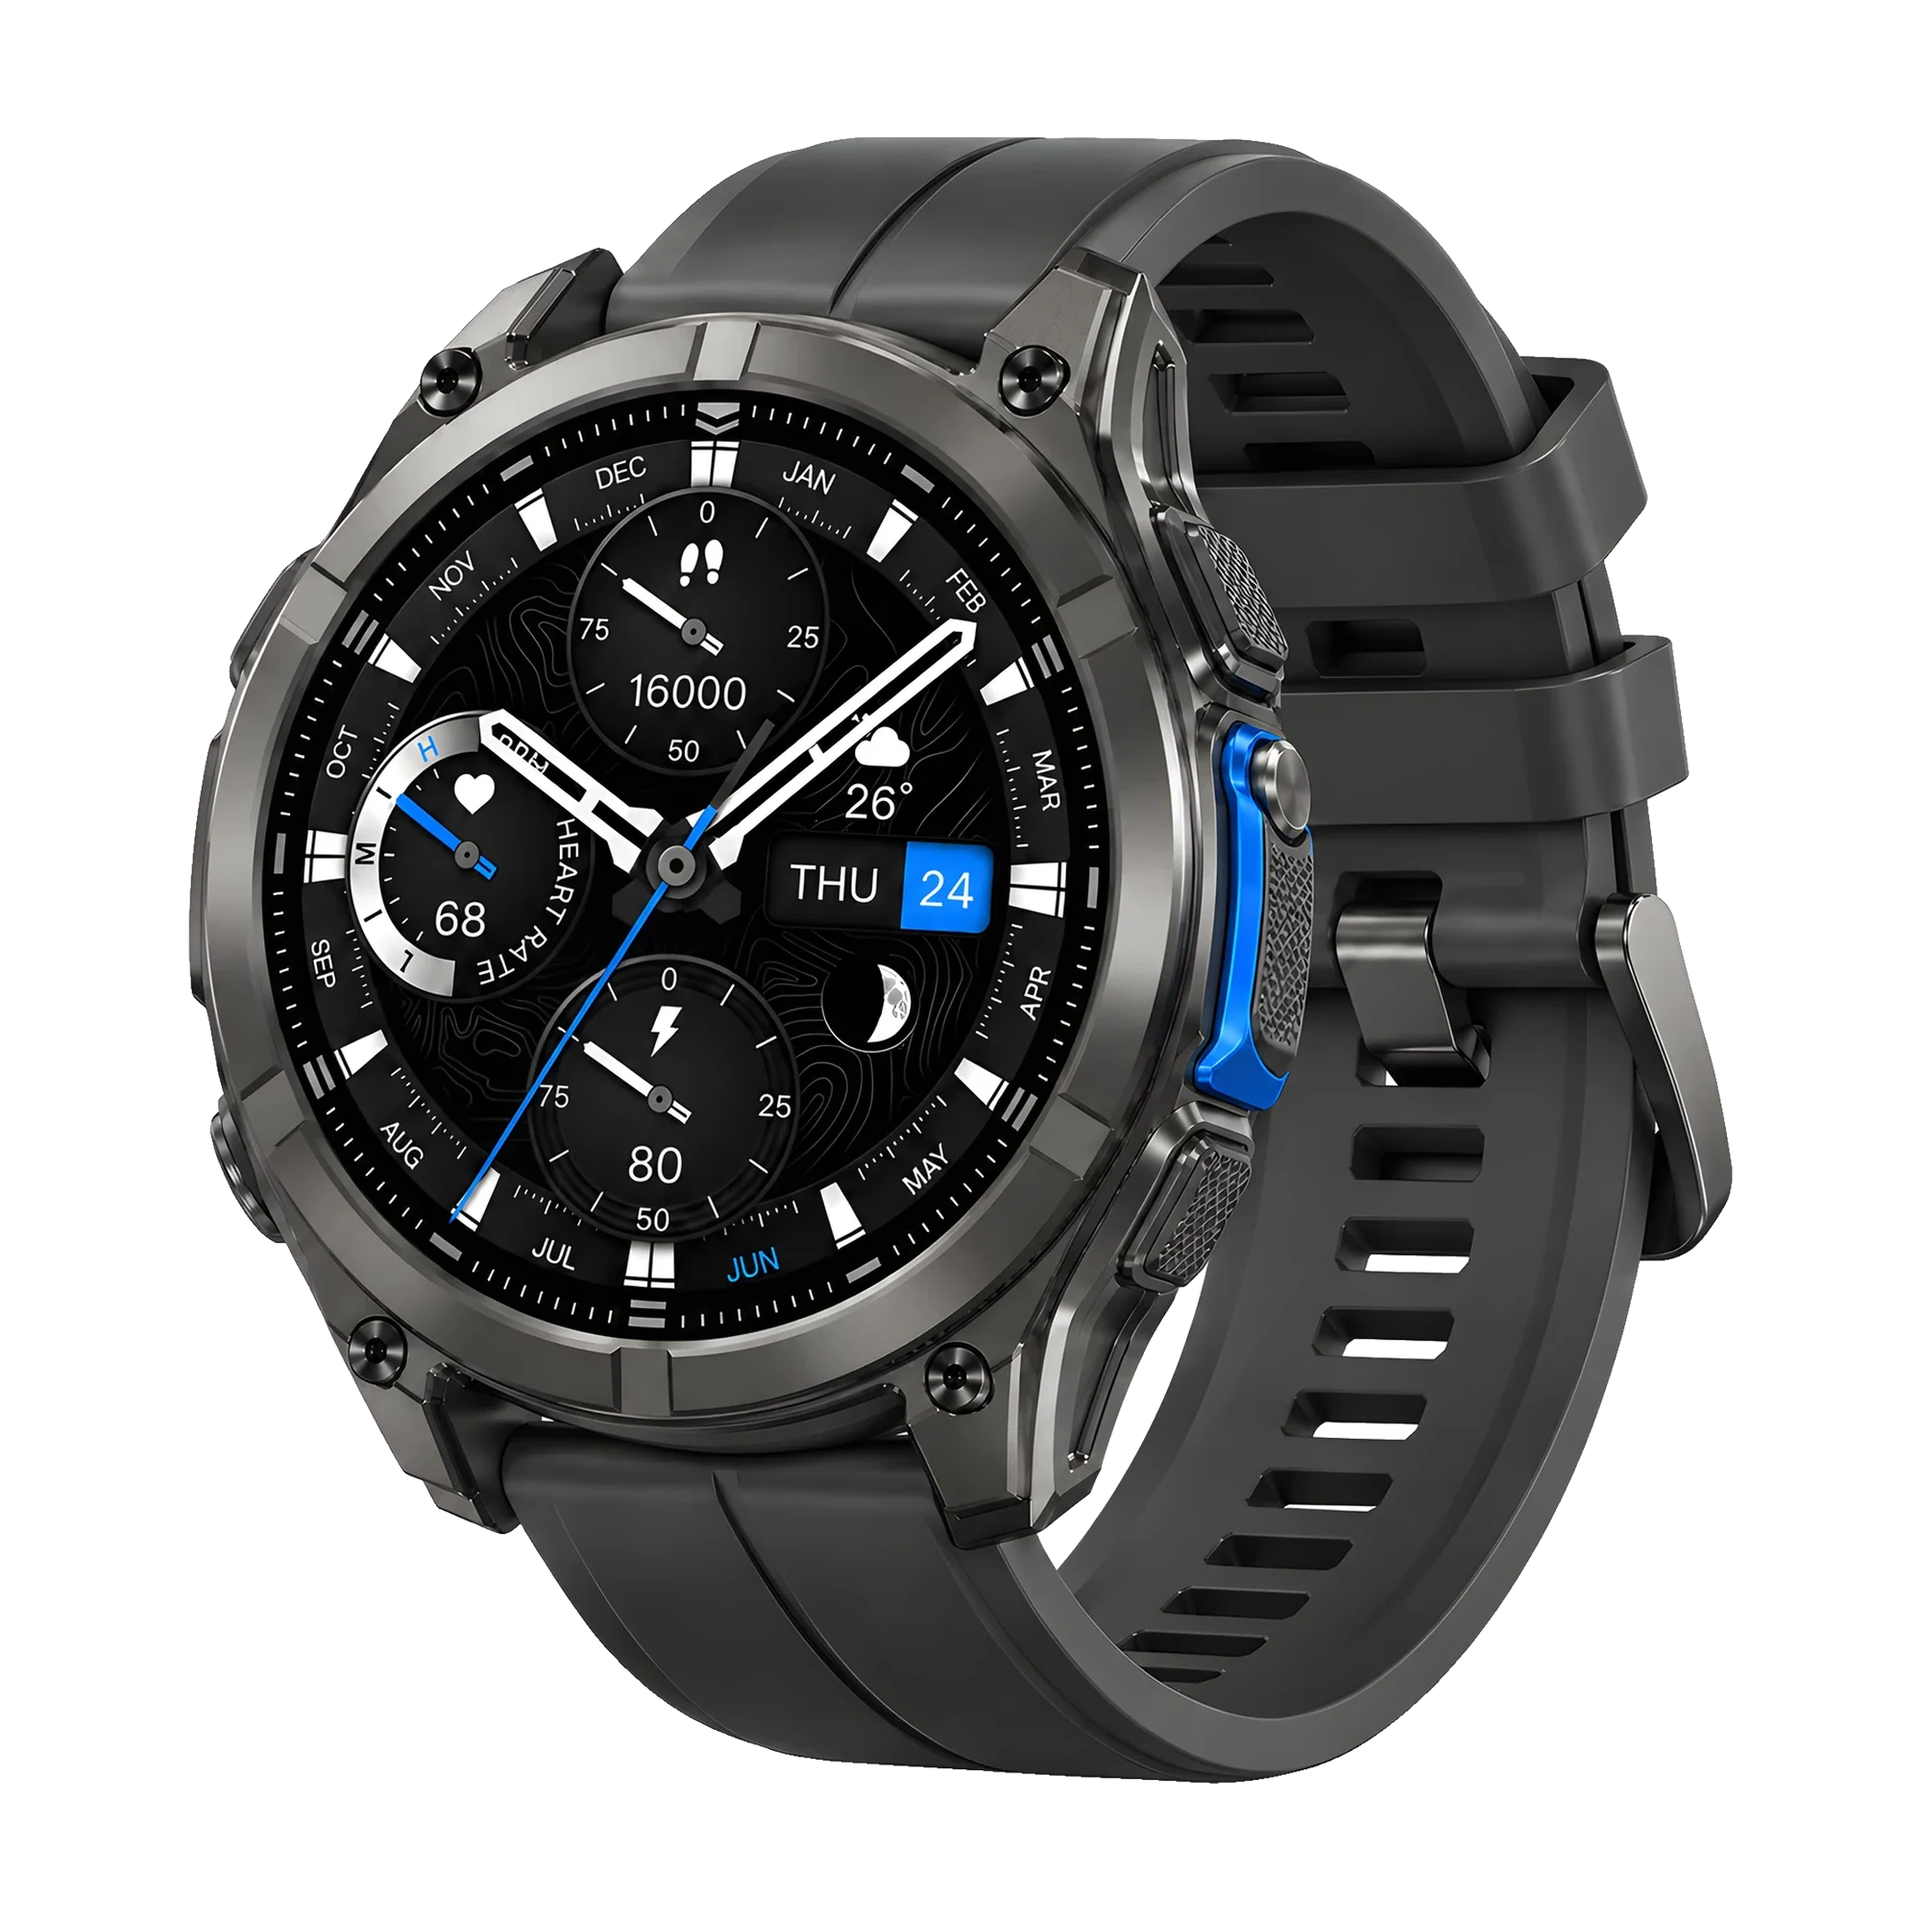
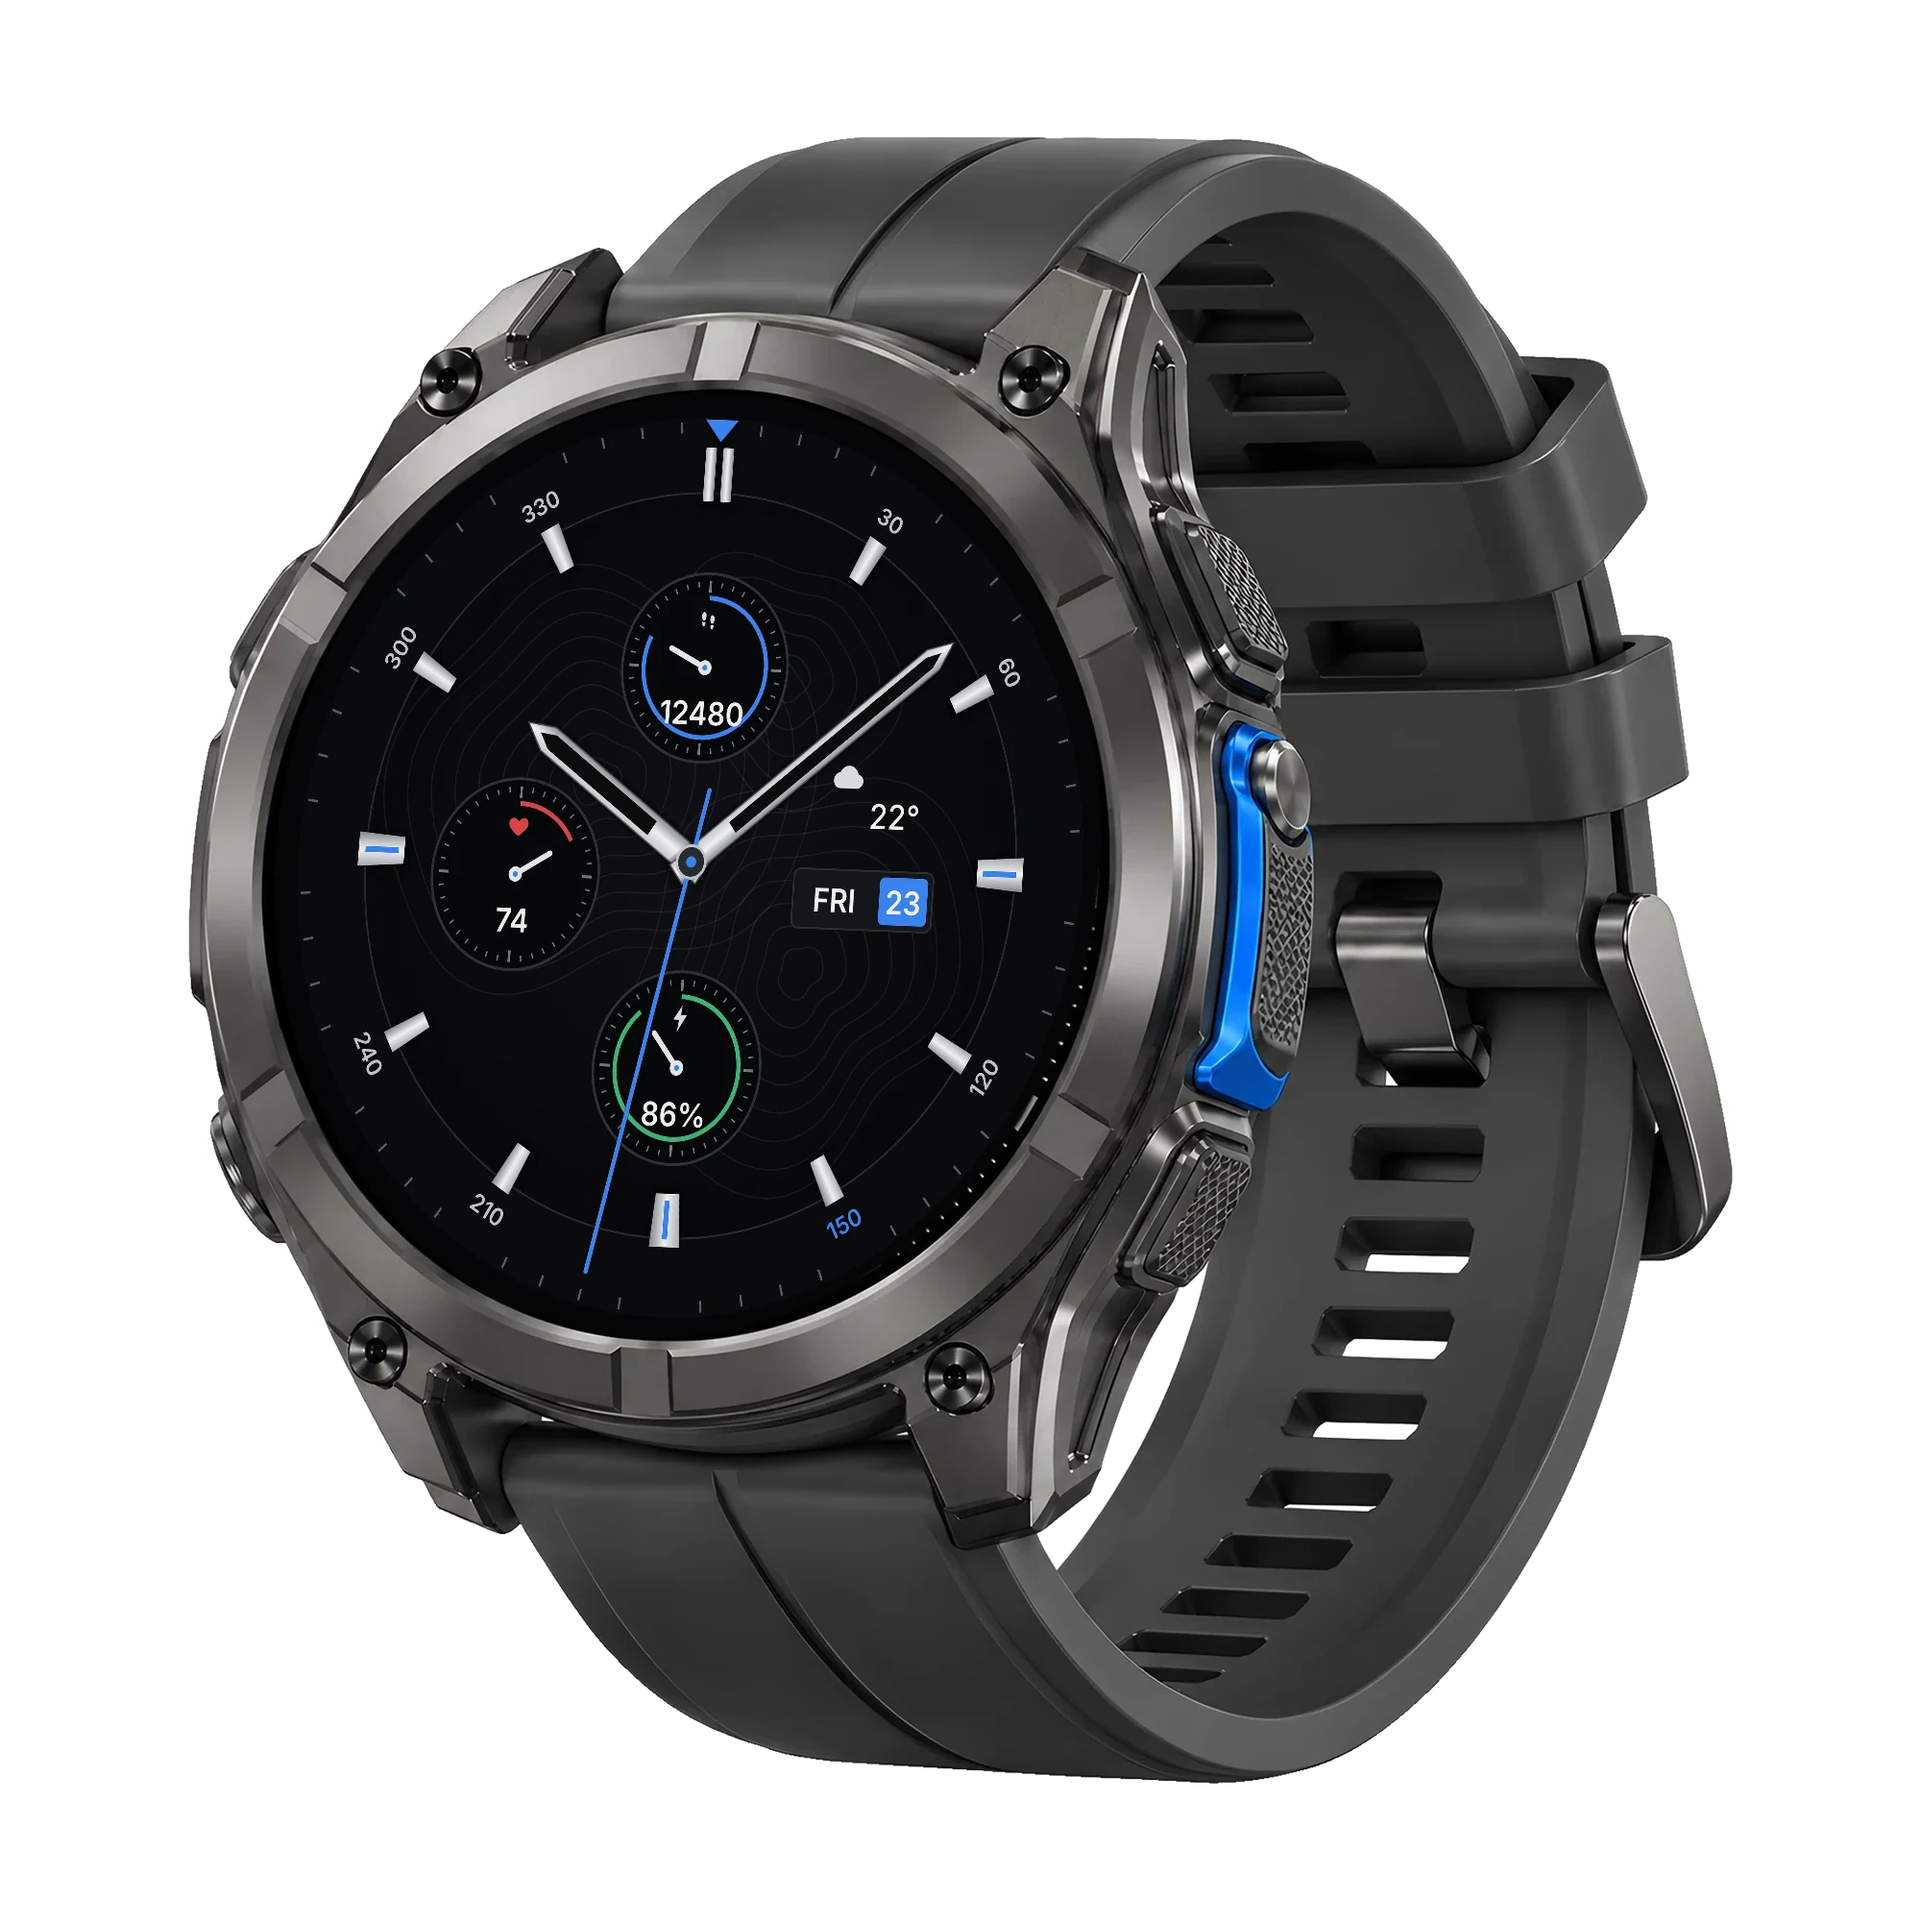
Torvan photos: replace the stock watch face with our own design (#15)
The supplier's stock watch face made our Torvan photos easy to match
to the same watch sold elsewhere. The front, angle and hero photos and
the share image now show a new face in the same style (outer ring,
steps / heart rate / battery dials, weather, date) with different details.

Claude-Session: https://claude.ai/code/session_01EBp4PJDMuRetstA9WV4qsx

Changed region(s): [[0.124, 0.186, 0.558, 0.682], [0.186, 0.589, 0.217, 0.62]]

diff --git a/lib/products.ts b/lib/products.ts
@@ -557,7 +557,7 @@ export const products: Product[] = [
     imageAlts: [
       "MATIN Torvan round rugged smartwatch with blue side button, textured grip keys and black silicone strap",
       'MATIN Torvan round rugged smartwatch in black with a blue side plate, 1.43" AMOLED display and silicone strap',
-      "MATIN Torvan front view with round AMOLED display showing steps, heart rate, weather, date and moon phase",
+      "MATIN Torvan front view with round AMOLED display showing steps, heart rate, battery, weather and date",
       "MATIN Torvan side view with two buttons and a blue stainless steel side plate",
       "Back of the MATIN Torvan with heart rate sensor and magnetic charging pins",
     ],
